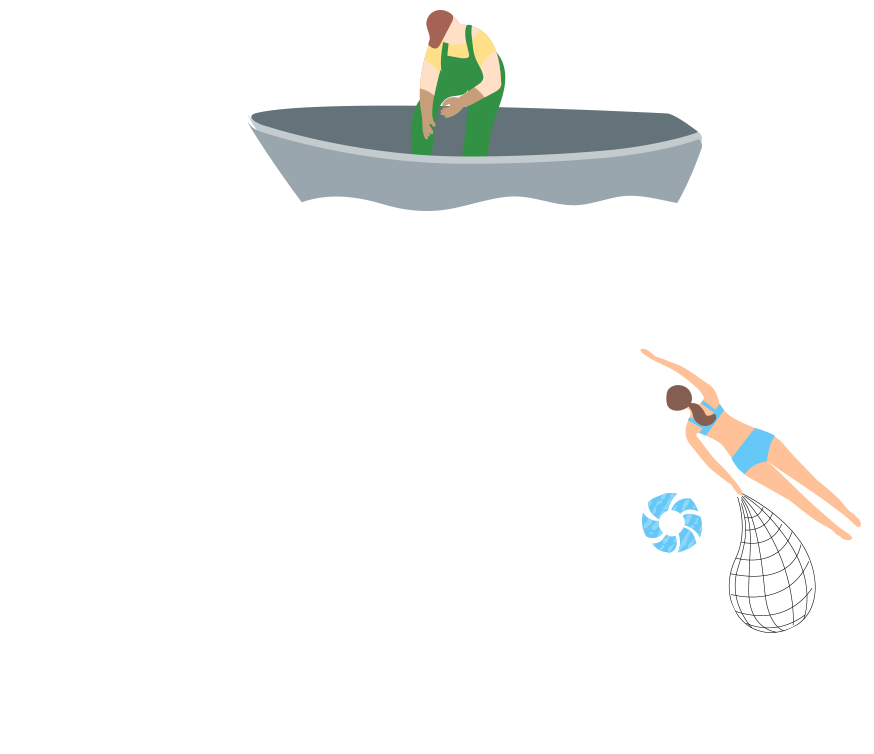
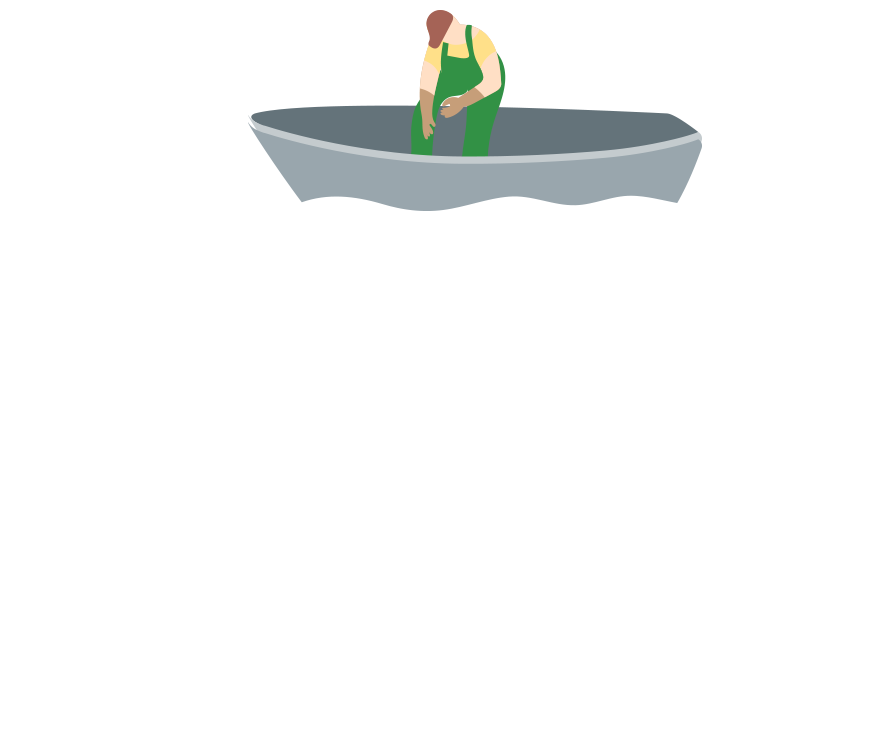
kv 調整

Changed region(s): [[0.7414, 0.4881, 0.9886, 0.8541], [0.7105, 0.6406, 0.8032, 0.7321], [0.7414, 0.4576, 0.7723, 0.4881]]

diff --git a/src/components/Hero/index.js b/src/components/Hero/index.js
@@ -1,6 +1,7 @@
-import React, { useEffect } from "react";
+import React, { useEffect, useLayoutEffect } from "react";
 import Fade from "react-reveal/Fade";
 import {gsap} from "gsap";
+import { ScrollTrigger } from "gsap/ScrollTrigger";
 
 import BirdAnimation from "../../components/animation/BirdAnimation";
 import Counters from "../../components/animation/Counters";
@@ -11,6 +12,9 @@ import oceanLogo from "../../assets/images/kv/title.png";
 import oceanWaves from "../../assets/images/ocean_waves.svg";
 // import mountains from "../../assets/images/mountains.png";
 import fish from "../../assets/images/kv/fish.png";
+import stingray from "../../assets/images/kv/stingray.png";
+import seagull1 from "../../assets/images/kv/seagull-1.png";
+import seagull2 from "../../assets/images/kv/seagull-2.png";
 import net from "../../assets/images/kv/net.png";
 import ship from "../../assets/images/kv/ship.png";
 import trashOutside from "../../assets/images/kv/trash-outside.png";
@@ -21,9 +25,94 @@ import printLeft from "../../assets/images/print_left.png";
 import printRight from "../../assets/images/print_right.png";
 import bird1 from "../../assets/images/bird_1.png";
 
-let tl = gsap.timeline();
+let tl1 = gsap.timeline();
+let tl2 = gsap.timeline();
+
+const netAnimation = () => {
+  gsap.timeline({
+    scrollTrigger: {
+      trigger: ".fish",
+      start: "top center",
+      end: "top 5%",
+      scrub: true,
+    },
+  }).from(
+    ".net_catch, .trash_catch",
+    {
+      opacity: 1,
+      scale: 1.15,
+      duration: 1,
+    }
+  )
+  .to(
+    ".net_catch, .trash_catch",
+    {
+      scale: 0.2,
+      opacity: 1,
+      duration: 3,
+    }
+  )
+  .to(
+    ".net_catch, .trash_catch",
+    {
+      scale: 0.2,
+      opacity: 0,
+      duration: 1,
+    }
+  )
+}
+
+
+const stingrayAnimation = () => {
+  gsap.timeline({
+    scrollTrigger: {
+      trigger: ".fish",
+      start: "top center",
+      end: "top 5%",
+      scrub: true,
+    },
+    default: {
+      opacity: 0,
+      rotation: -10,
+      xPercent: 50,
+      yPercent: 150,
+    }
+  }).from(
+    ".stingray",
+    {
+      opacity: 0,
+      rotation: -10,
+      xPercent: 50,
+      yPercent: 150,
+      duration: 1,
+      ease: "power0",
+    }
+  )
+  .to(
+    ".stingray",
+    {
+      opacity: 0,
+      rotation: -10,
+      xPercent: -50,
+      yPercent: -150,
+      duration: 1,
+      ease: "power0",
+    }
+  )
+}
+
+const scrollAnimation = () => {
+  tl1.from(".hero .scroll", {
+    duration: 1,
+    delay: 4,
+    y: -50,
+    opacity: 0,
+    ease: "bounce",
+  }, "-=1")
+}
+
 const flipflopAnimation = () => {
-  tl.to(".elements .print_left_4", {
+  tl2.to(".elements .print_left_4", {
     duration: 1,
     opacity: 1,
     delay: 2,
@@ -80,19 +169,18 @@ const flipflopAnimation = () => {
     opacity: 0,
     ease: "back",
   }, "-=1")
-  .from(".hero .scroll", {
-    duration: 1,
-    y: -50,
-    opacity: 0,
-    ease: "bounce",
-  }, "-=1")
 };
+
 const Hero = ({countsData}) => {
+  gsap.registerPlugin(ScrollTrigger);
 
-  useEffect(() => {
+  useLayoutEffect(() => {
     flipflopAnimation();
+    scrollAnimation();
+    netAnimation();
+    stingrayAnimation();
   }, []);
-
+  
   return (
     <div className="hero w-full h-auto flex flex-col items-center mb-48">
           <div className="sky relative w-full flex flex-col items-center pt-32 overflow-hidden">
@@ -113,12 +201,13 @@ const Hero = ({countsData}) => {
               />
             </div>
             </Fade>
-            <div className="bird_flying absolute">
+            {/* <div className="bird_flying absolute">
               <BirdAnimation />
-            </div>
+            </div> */}
             <Counters countsData={countsData}/>
-            <div className="fish relative w-4/5 mb-20 md:w-3/5">
+            <div className="fish relative mb-20 md:mb-80">
               <img className="fish_around" src={fish} alt="fish" />
+              {/* <div className="ship absolute"> */}
               <div className="ship ship_waves absolute">
                 <img src={ship} alt="ship" />
                 <img className="net_catch absolute w-full inset-0" src={net} alt="net" />
@@ -126,6 +215,9 @@ const Hero = ({countsData}) => {
                 <img className="absolute w-full inset-0" src={trashOutside} alt="trashOutside" />
               </div>
             </div>
+            <img className="stingray absolute hidden md:block" src={stingray} alt="stingray" />
+            <img className="seagull1 absolute" src={seagull1} alt="seagull1" />
+            <img className="seagull2 absolute hidden md:block" src={seagull2} alt="seagull2" />
             {/* 
               <div className="mountain absolute bottom-0 w-full flex items-end">
                 <img
@@ -135,6 +227,16 @@ const Hero = ({countsData}) => {
                 />
               </div>
             */}
+            <a
+              href="#計畫背景"
+              className="animate-bounce group scroll transition ease-in-out duration-300 font-black hover:text-primary-medium text-sm flex items-center justify-center w-11/12 max-w-xs absolute bottom-40 left-0 right-0 mx-auto"
+            >
+              <p className="tracking-wider">SCROLL</p>
+              <div className="relative border-2 border-black transition ease-in-out duration-300 group-hover:border-primary-medium px-3 py-5 rounded-full bg-white bg-opacity-75 mx-3">
+                <span className="mouse absolute top-1 left-1/2 transform px-1 py-2 rounded-full transition ease-in-out duration-300 group-hover:bg-primary-medium bg-black"></span>
+              </div>
+              <p className="tracking-wider">DOWN</p>
+            </a>
           </div>
 
           <div className="ocean relative w-full h-2/5 overflow-hidden">
@@ -151,17 +253,6 @@ const Hero = ({countsData}) => {
             <Typing/>
             </div>
             </Fade>
-            <a
-              href="#計畫背景"
-              className="animate-bounce group scroll transition ease-in-out duration-300 font-black hover:text-primary-medium text-sm flex items-center justify-center w-11/12 max-w-xs absolute bottom-2 left-0 right-0 mx-auto"
-            >
-              <p className="tracking-wider">SCROLL</p>
-              <div className="relative border-2 border-black transition ease-in-out duration-300 group-hover:border-primary-medium px-3 py-5 rounded-full bg-white bg-opacity-75 mx-3">
-                <span className="mouse absolute top-1 left-1/2 transform px-1 py-2 rounded-full transition ease-in-out duration-300 group-hover:bg-primary-medium bg-black"></span>
-              </div>
-              <p className="tracking-wider">DOWN</p>
-            </a>
-            
           </div>
 
           <div className="elements relative">

diff --git a/src/assets/scss/App.scss b/src/assets/scss/App.scss
@@ -103,6 +103,14 @@ body {
   }
 }
 
+.fish {
+  width: 52%;
+  
+  @include media-768 {
+    width: 180%;
+  }
+}
+
 .counter-numbers .number{
   font-family: Work Sans;
 }
@@ -427,7 +435,7 @@ body {
 
 .net_catch{
   transform-origin: 50% 12%;
-  animation: net-catch 10s linear infinite;
+//   animation: net-catch 10s linear infinite;
 }
 
 @keyframes net-catch {
@@ -465,7 +473,7 @@ body {
 
 .trash_catch{
   transform-origin: 50% 12%;
-  animation: trash-catch 10s linear infinite;
+//   animation: trash-catch 10s linear infinite;
 }
 
 @keyframes trash-catch {
@@ -495,6 +503,87 @@ body {
   }
 }
 
+.stingray {
+  width: 19%;
+  top: 54%;
+  left: 1%;
+}
+
+.seagull1 {
+  width: 7%;
+  // top: 57%;
+  // left: calc(50% + 552px);
+  animation: flying1 16s linear both infinite;
+}
+
+@keyframes flying1 {
+  0% {
+    top: 57%;
+    right: -10%;
+  }
+  15%{
+    transform: rotate(0deg);
+    top: 55%;
+    right: 25%;
+  }
+  30%{
+    transform: rotate(-10deg);
+    top: 59%;
+    right: 50%;
+  }
+  45%{
+    top: 55%;
+    right: 80%;
+  }
+  60% {
+    transform: rotate(-20deg);
+    top: 63%;
+    right: 110%;
+  }
+  100% {
+    transform: rotate(-20deg);
+    top: 63%;
+    right: 110%;
+  }
+}
+
+.seagull2 {
+  width: 24%;
+  // top: 7%;
+  // left: calc(50% + 520px);
+  animation: flying2 16s linear both infinite;
+}
+
+@keyframes flying2 {
+  0% {
+    top: -30%;
+    right: -30%;
+  }
+  15%{
+    top: -10%;
+    right: -10%;
+    transform: scale(1);
+  }
+  40%{
+    opacity: 1;
+    top: 50%;
+    right: 20%;
+    transform: scale(0.5) rotate(-20deg);
+  }
+  55%{
+    opacity: 0;
+    transform: scale(0.5) rotate(-10deg);
+  }
+  60%{
+    opacity: 0;
+    top: 110%;
+    right: 50%;
+  }
+  100% {
+    top: 110%;
+    right: 50%;
+  }
+}
 
 // Slick Slider
 

diff --git a/src/components/animation/Counters.js b/src/components/animation/Counters.js
@@ -95,7 +95,7 @@ const Counters = ({countsData}) => {
   return (
     <Fade bottom>
     { cleanBeachNum.value > 0 &&
-            <div className="counters w-full max-w-5xl flex justify-between flex-wrap mb-20">
+            <div className="counters w-full max-w-5xl flex justify-between flex-wrap mb-12">
               <div className="counter sm:w-1/3 md:w-1/5 w-1/2 flex flex-col items-center mb-5">
                 <div className="counter-title font-medium text-center">
                   <h2>響應企業數</h2>

diff --git a/tailwind.config.js b/tailwind.config.js
@@ -87,7 +87,7 @@ module.exports = {
       spin: 'spin 1s linear infinite',
       ping: 'ping 1s cubic-bezier(0, 0, 0.2, 1) infinite',
       pulse: 'pulse 2s cubic-bezier(0.4, 0, 0.6, 1) infinite',
-      bounce: 'bounce 1s 10 10s',
+      bounce: 'bounce 1s 10 4s',
     },
     backgroundColor: (theme) => theme('colors'),
     backgroundImage: {
